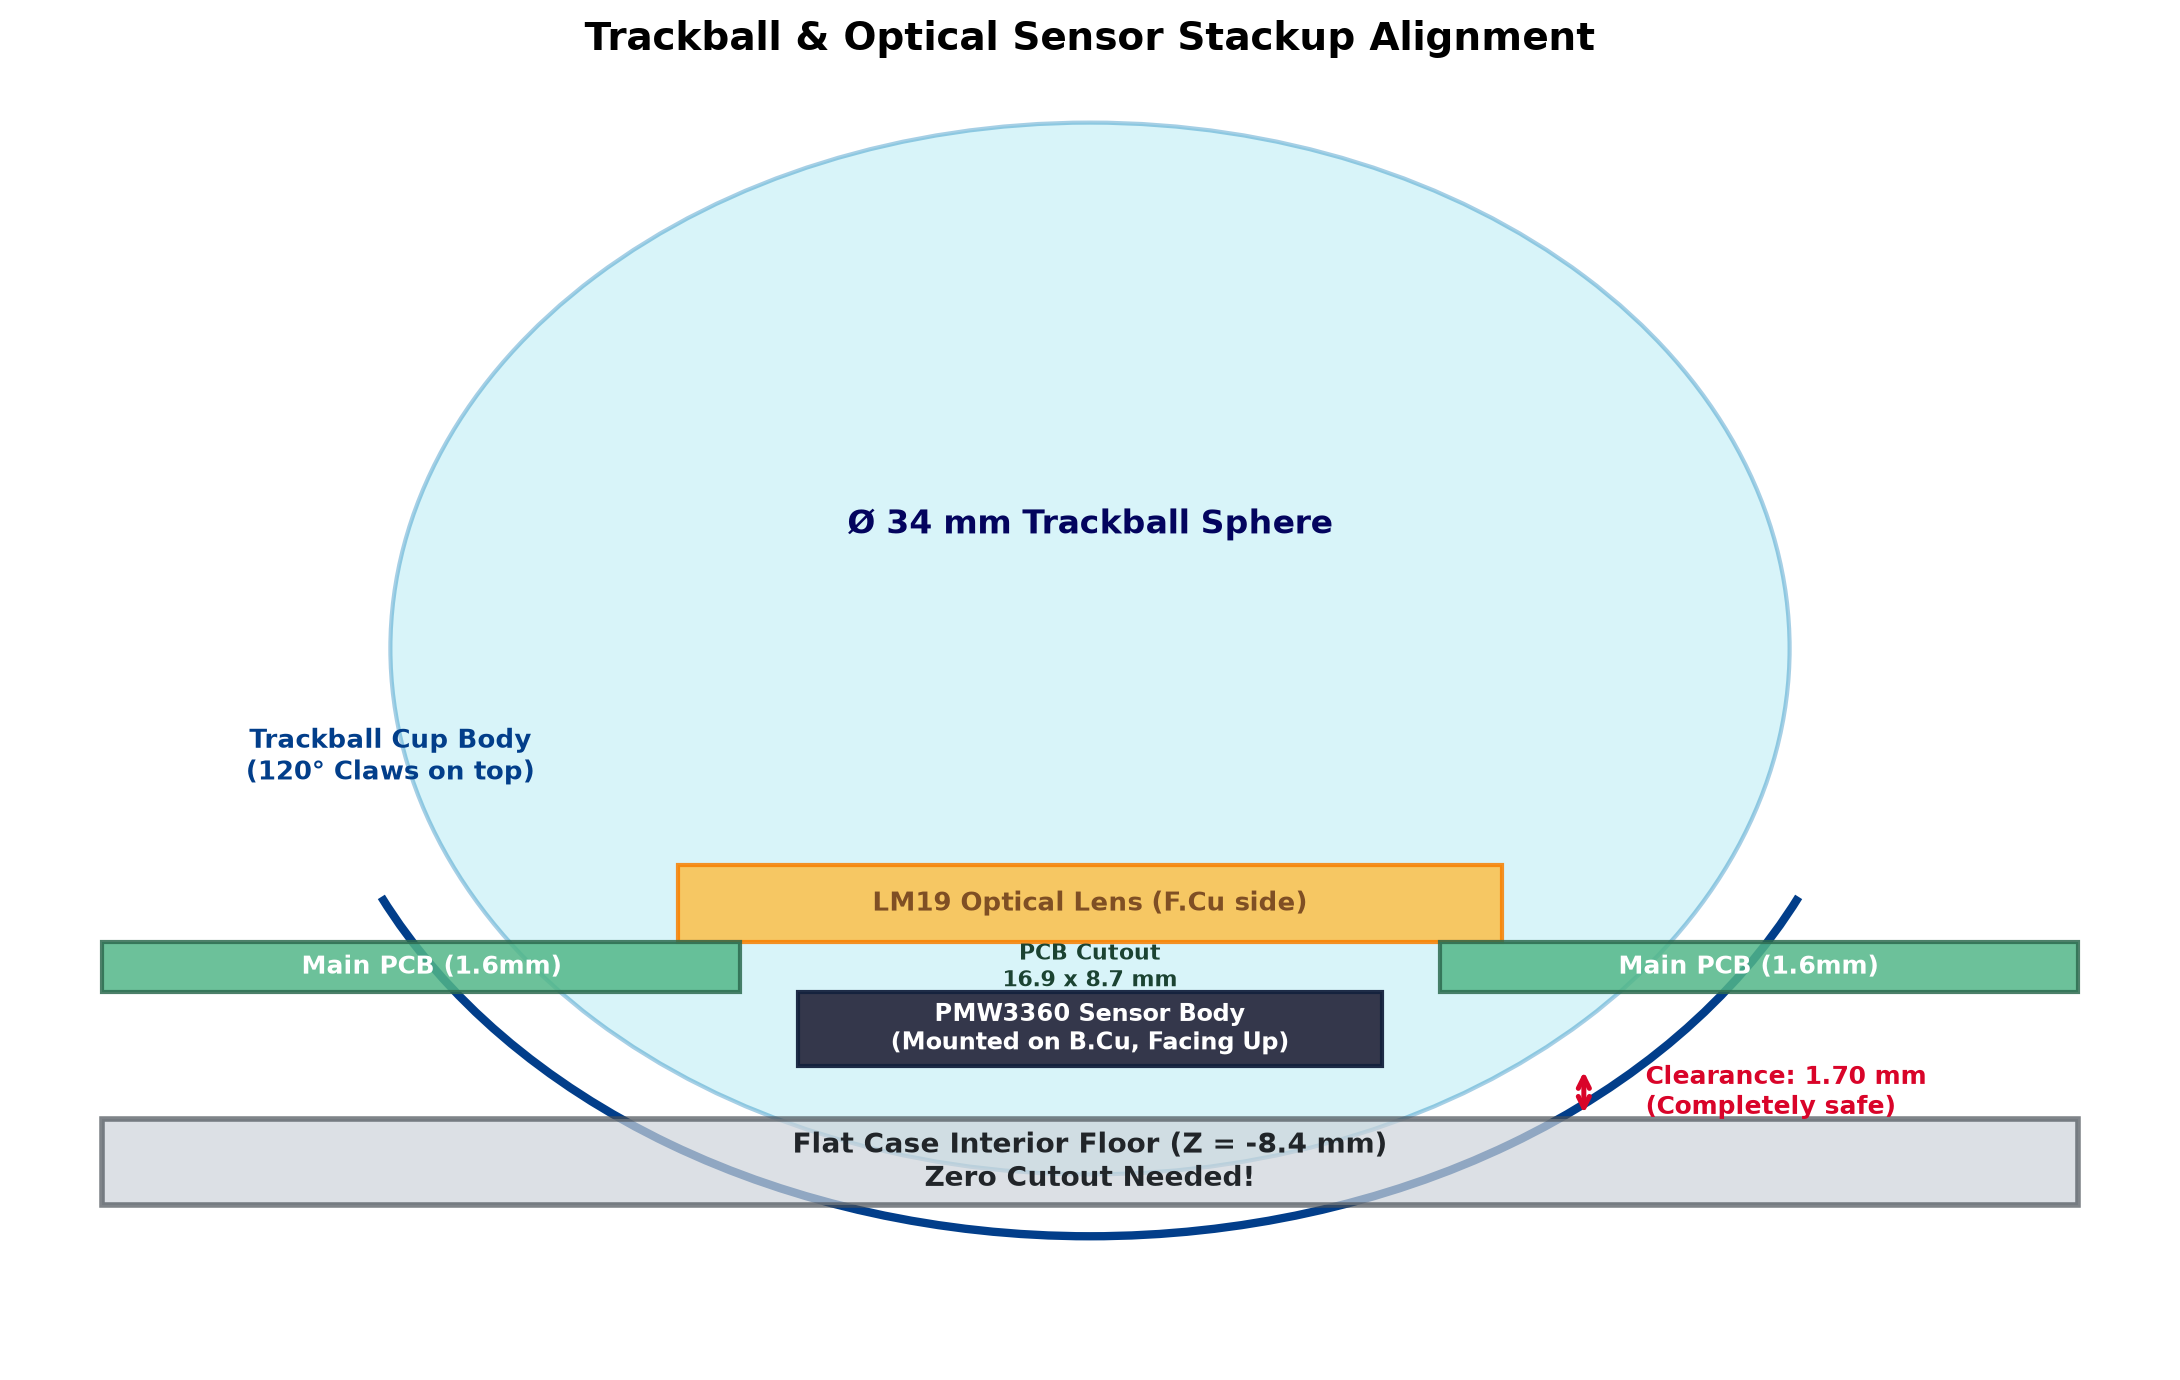
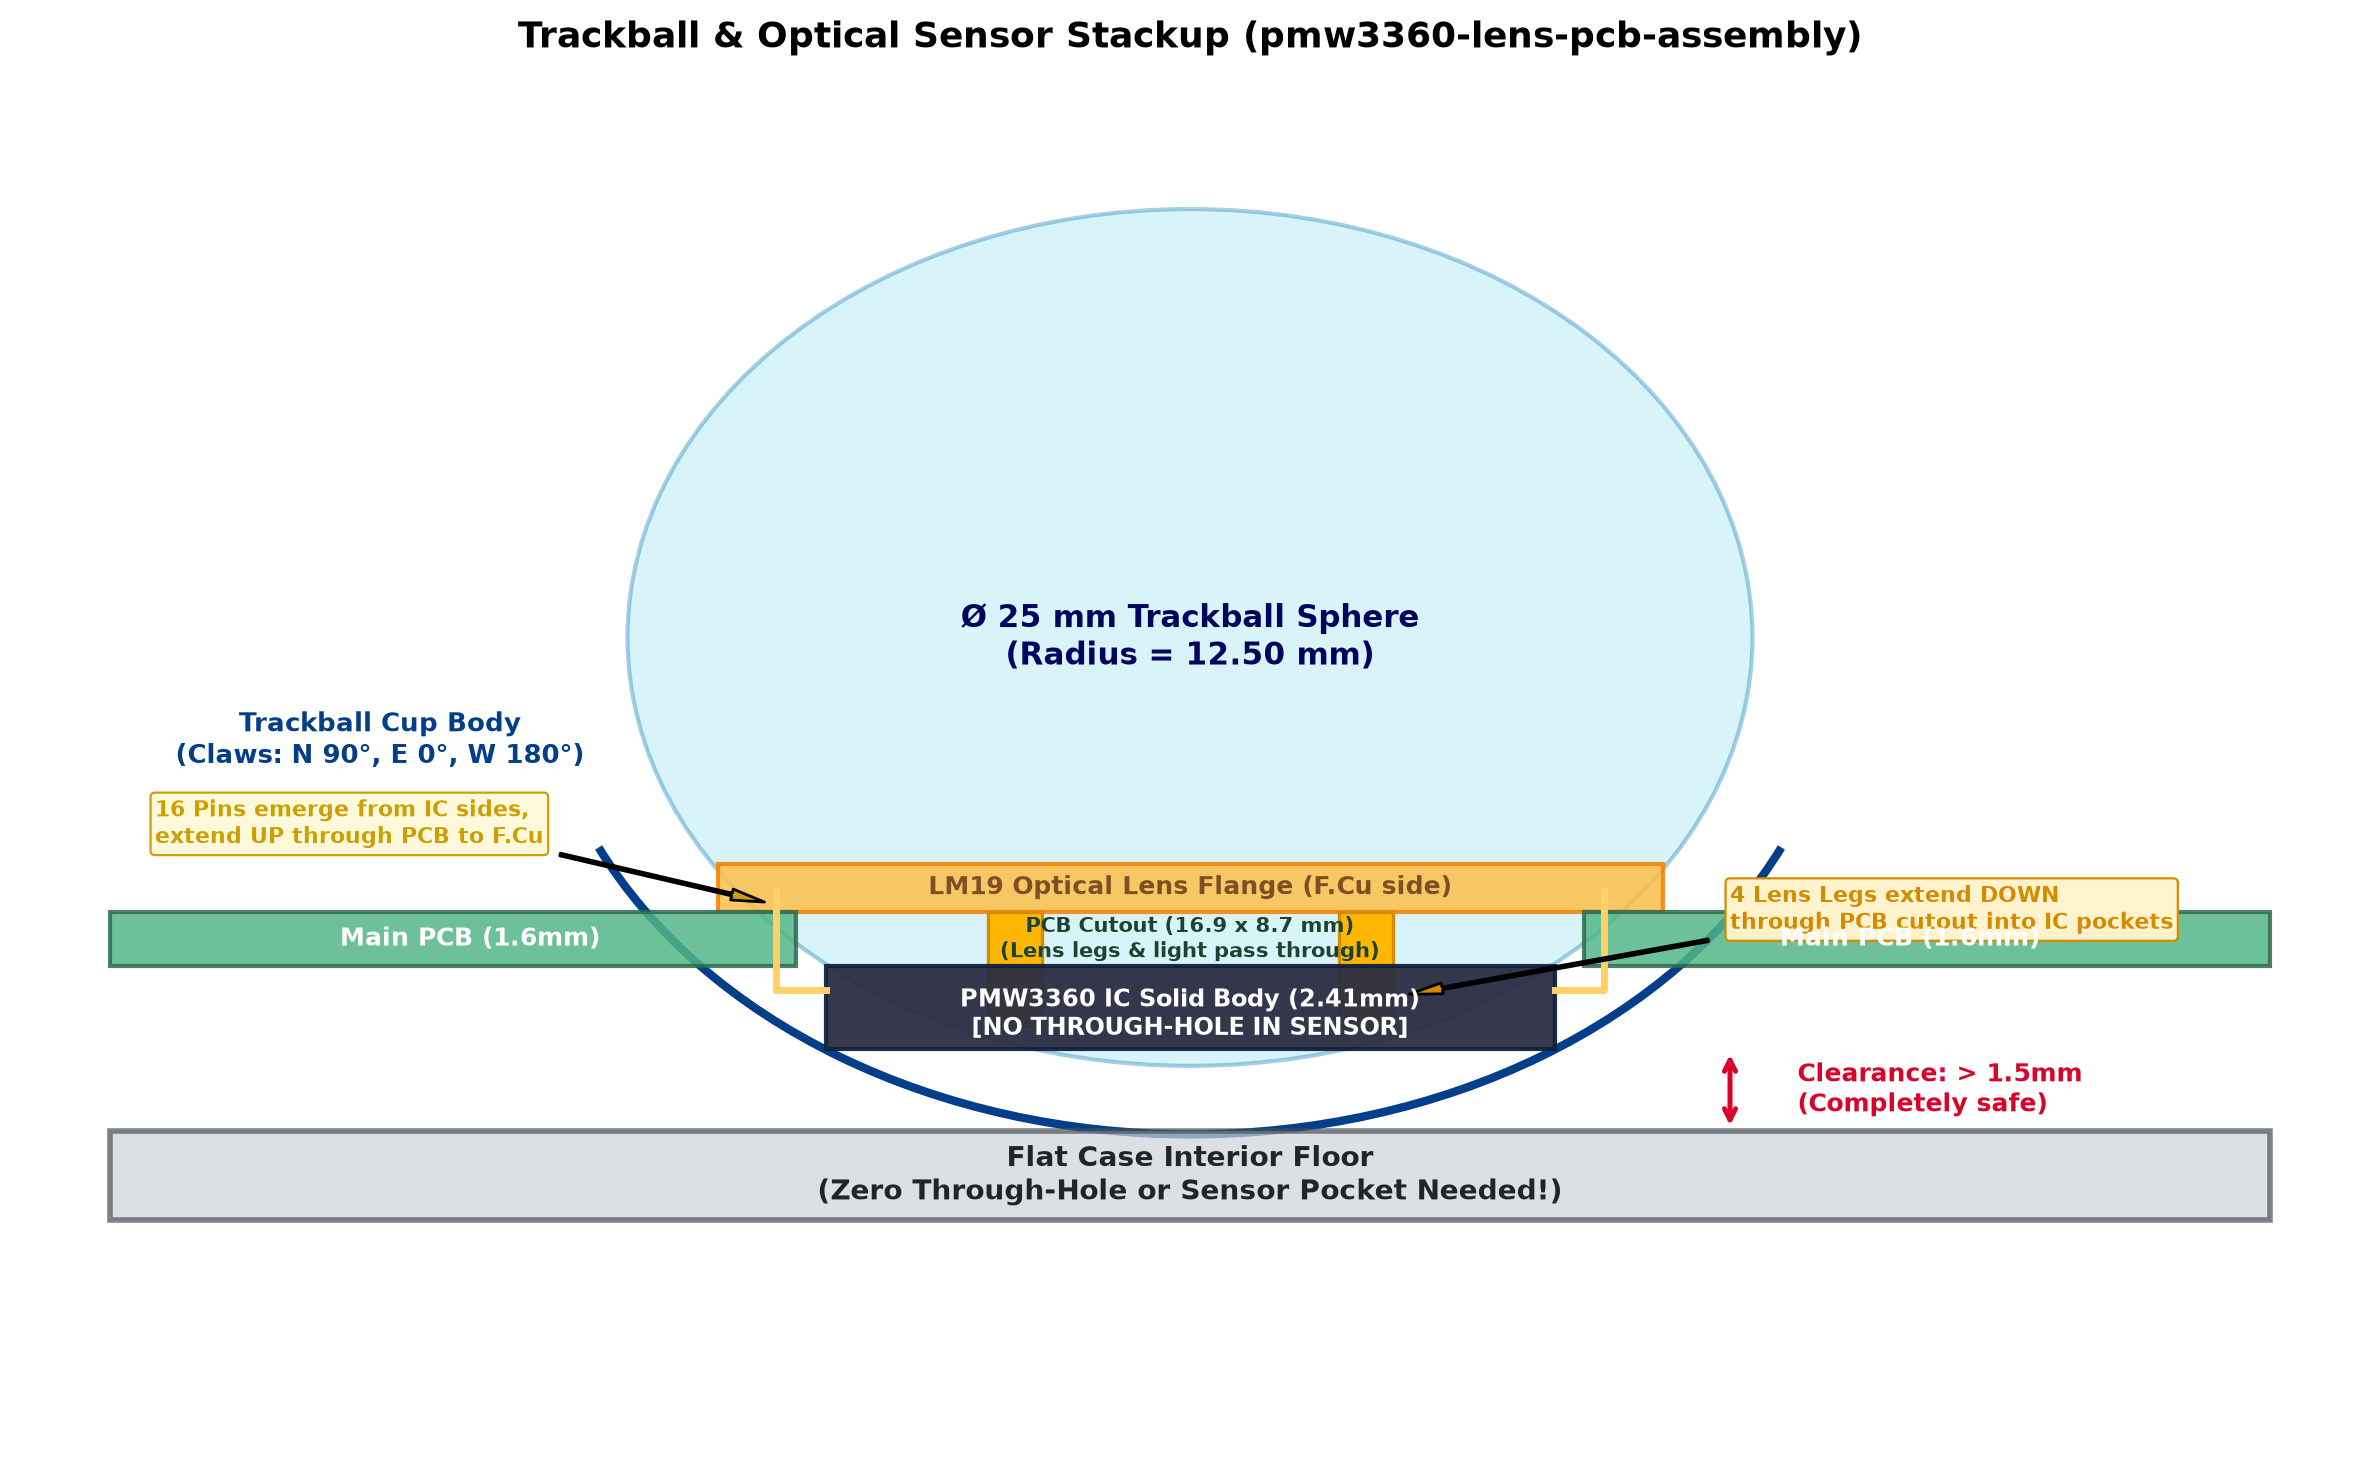
fix 4. トラックボールカップ & 光学系仕様 (Trackball & Optics)

diff --git a/scripts/generate_spec_diagrams.py b/scripts/generate_spec_diagrams.py
@@ -167,52 +167,79 @@ def generate_ports_and_screws_diagram():
     print(f"Saved: {out_file}")
 
 def generate_trackball_optical_diagram():
-    fig, ax = plt.subplots(figsize=(11, 7), dpi=200)
+    fig, ax = plt.subplots(figsize=(12, 7.5), dpi=200)
     ax.set_xlim(-26, 26)
-    ax.set_ylim(-16, 25)
+    ax.set_ylim(-16, 24)
     ax.set_facecolor('#f8f9fa')
     fig.patch.set_facecolor('#ffffff')
 
-    ball_center = (0, 7.0)
-    ball = patches.Circle(ball_center, 17.0, linewidth=1.5, edgecolor='#0077b6', facecolor='#90e0ef', alpha=0.35)
+    # Ø 25.0 mm Trackball Sphere (Radius = 12.50 mm)
+    # Ball center at (0, 8.0), bottom of ball at Z = 8.0 - 12.5 = -4.5 mm
+    ball_center = (0, 8.0)
+    ball = patches.Circle(ball_center, 12.50, linewidth=1.5, edgecolor='#0077b6', facecolor='#90e0ef', alpha=0.35)
     ax.add_patch(ball)
-    ax.text(0, 11.0, "Ø 34 mm Trackball Sphere", ha='center', va='center', fontsize=12, fontweight='bold', color='#03045e')
+    ax.text(0, 8.0, "Ø 25 mm Trackball Sphere\n(Radius = 12.50 mm)", ha='center', va='center', fontsize=11, fontweight='bold', color='#03045e')
 
-    # Cup profile (U-shaped arc)
-    cup_outline = patches.Arc((0, 7.0), 38.0, 38.0, theta1=205, theta2=335, linewidth=3, color='#023e8a')
+    # Cup profile (U-shaped arc for 25mm ball)
+    cup_outline = patches.Arc(ball_center, 29.0, 29.0, theta1=205, theta2=335, linewidth=3, color='#023e8a')
     ax.add_patch(cup_outline)
-    ax.text(-17, 3.5, "Trackball Cup Body\n(120° Claws on top)", ha='center', va='center', fontsize=9.5, fontweight='bold', color='#023e8a')
+    ax.text(-18, 5.0, "Trackball Cup Body\n(Claws: N 90°, E 0°, W 180°)", ha='center', va='center', fontsize=9.5, fontweight='bold', color='#023e8a')
 
-    # Lens LM19 on F.Cu
-    lens = patches.Rectangle((-10, -2.5), 20, 2.5, linewidth=1.5, edgecolor='#f77f00', facecolor='#fcbf49', alpha=0.85)
-    ax.add_patch(lens)
-    ax.text(0, -1.25, "LM19 Optical Lens (F.Cu side)", ha='center', va='center', fontsize=9.5, fontweight='bold', color='#7f4f24')
+    # LM19-LSI Optical Lens (sits on F.Cu at Z in [-0.53, 0.0] or above PCB)
+    # Flange: 21.15 x 18.85 mm, Flange thickness 0.53mm
+    lens_flange = patches.Rectangle((-10.5, 0.0), 21.0, 1.4, linewidth=1.5, edgecolor='#f77f00', facecolor='#fcbf49', alpha=0.85)
+    ax.add_patch(lens_flange)
+    ax.text(0, 0.7, "LM19 Optical Lens Flange (F.Cu side)", ha='center', va='center', fontsize=9, fontweight='bold', color='#7f4f24')
 
-    # PCB
-    pcb_left = patches.Rectangle((-24, -4.1), 15.5, 1.6, linewidth=1.5, edgecolor='#2d6a4f', facecolor='#52b788', alpha=0.85)
-    pcb_right = patches.Rectangle((8.5, -4.1), 15.5, 1.6, linewidth=1.5, edgecolor='#2d6a4f', facecolor='#52b788', alpha=0.85)
+    # 4 Lens Positioning Legs extending DOWN through PCB cutout
+    # 2 round pins (dia 0.9mm) + 2 rectangular ribs
+    leg_left = patches.Rectangle((-4.5, -3.35), 1.2, 3.35, linewidth=1.2, edgecolor='#d48b00', facecolor='#ffb703')
+    leg_right = patches.Rectangle((3.3, -3.35), 1.2, 3.35, linewidth=1.2, edgecolor='#d48b00', facecolor='#ffb703')
+    ax.add_patch(leg_left)
+    ax.add_patch(leg_right)
+    ax.annotate('4 Lens Legs extend DOWN\nthrough PCB cutout into IC pockets',
+                xy=(4.5, -2.5), xytext=(12, -0.5),
+                arrowprops=dict(facecolor='#d48b00', shrink=0.05, width=1, headwidth=4),
+                fontsize=8, fontweight='bold', color='#d48b00',
+                bbox=dict(boxstyle="round,pad=0.2", fc="#fff3cd", ec="#d48b00", lw=0.8))
+
+    # PCB (FR-4, thickness 1.6mm: Z from -1.6 to 0.0)
+    pcb_left = patches.Rectangle((-24, -1.6), 15.25, 1.6, linewidth=1.5, edgecolor='#2d6a4f', facecolor='#52b788', alpha=0.85)
+    pcb_right = patches.Rectangle((8.75, -1.6), 15.25, 1.6, linewidth=1.5, edgecolor='#2d6a4f', facecolor='#52b788', alpha=0.85)
     ax.add_patch(pcb_left)
     ax.add_patch(pcb_right)
-    ax.text(-16, -3.3, "Main PCB (1.6mm)", ha='center', va='center', fontsize=9, fontweight='bold', color='#ffffff')
-    ax.text(16, -3.3, "Main PCB (1.6mm)", ha='center', va='center', fontsize=9, fontweight='bold', color='#ffffff')
-    ax.text(0, -3.3, "PCB Cutout\n16.9 x 8.7 mm", ha='center', va='center', fontsize=8, fontweight='bold', color='#1b4332')
+    ax.text(-16, -0.8, "Main PCB (1.6mm)", ha='center', va='center', fontsize=9, fontweight='bold', color='#ffffff')
+    ax.text(16, -0.8, "Main PCB (1.6mm)", ha='center', va='center', fontsize=9, fontweight='bold', color='#ffffff')
+    ax.text(0, -0.8, "PCB Cutout (16.9 x 8.7 mm)\n(Lens legs & light pass through)", ha='center', va='center', fontsize=7.5, fontweight='bold', color='#1b4332')
 
-    # PMW3360 on B.Cu
-    pmw_body = patches.Rectangle((-7.1, -6.5), 14.2, 2.4, linewidth=1.5, edgecolor='#14213d', facecolor='#2b2d42', alpha=0.95)
+    # PMW3360DM-T2QU Sensor Package (Mounted on B.Cu, Z from -4.01 to -1.60)
+    # Solid package (NO holes in IC!)
+    pmw_body = patches.Rectangle((-8.1, -4.01), 16.2, 2.41, linewidth=1.5, edgecolor='#14213d', facecolor='#2b2d42', alpha=0.95)
     ax.add_patch(pmw_body)
-    ax.text(0, -5.3, "PMW3360 Sensor Body\n(Mounted on B.Cu, Facing Up)", ha='center', va='center', fontsize=8.5, fontweight='bold', color='#ffffff')
+    ax.text(0, -3.0, "PMW3360 IC Solid Body (2.41mm)\n[NO THROUGH-HOLE IN SENSOR]", ha='center', va='center', fontsize=8.5, fontweight='bold', color='#ffffff')
 
-    # Flat Case Floor
-    floor = patches.Rectangle((-24, -11.0), 48, 2.8, linewidth=2, edgecolor='#495057', facecolor='#ced4da', alpha=0.7)
+    # 16 Sensor Metal Pins emerging from IC sides and extending UP through PCB
+    # Left pins
+    ax.plot([-8.1, -9.2, -9.2], [-2.3, -2.3, 0.6], color='#ffd166', lw=2.5)
+    # Right pins
+    ax.plot([8.1, 9.2, 9.2], [-2.3, -2.3, 0.6], color='#ffd166', lw=2.5)
+    ax.annotate('16 Pins emerge from IC sides,\nextend UP through PCB to F.Cu',
+                xy=(-9.2, 0.2), xytext=(-23, 2.0),
+                arrowprops=dict(facecolor='#cca000', shrink=0.05, width=1, headwidth=4),
+                fontsize=8, fontweight='bold', color='#cca000',
+                bbox=dict(boxstyle="round,pad=0.2", fc="#fff9db", ec="#cca000", lw=0.8))
+
+    # Flat Case Interior Floor (Z = -7.21 or -8.4 mm)
+    floor = patches.Rectangle((-24, -9.0), 48, 2.6, linewidth=2, edgecolor='#495057', facecolor='#ced4da', alpha=0.7)
     ax.add_patch(floor)
-    ax.text(0, -9.6, "Flat Case Interior Floor (Z = -8.4 mm)\nZero Cutout Needed!", ha='center', va='center', fontsize=10, fontweight='bold', color='#212529')
+    ax.text(0, -7.7, "Flat Case Interior Floor\n(Zero Through-Hole or Sensor Pocket Needed!)", ha='center', va='center', fontsize=10, fontweight='bold', color='#212529')
 
     # Clearance arrow
-    ax.annotate('', xy=(12, -6.5), xytext=(12, -8.2),
+    ax.annotate('', xy=(12, -4.01), xytext=(12, -6.4),
                 arrowprops=dict(arrowstyle='<->', color='#d90429', lw=1.8))
-    ax.text(13.5, -7.35, "Clearance: 1.70 mm\n(Completely safe)", ha='left', va='center', fontsize=9, fontweight='bold', color='#d90429')
+    ax.text(13.5, -5.2, "Clearance: > 1.5mm\n(Completely safe)", ha='left', va='center', fontsize=9, fontweight='bold', color='#d90429')
 
-    ax.set_title("Trackball & Optical Sensor Stackup Alignment", fontsize=14, fontweight='bold', pad=15)
+    ax.set_title("Trackball & Optical Sensor Stackup (pmw3360-lens-pcb-assembly)", fontsize=13, fontweight='bold', pad=15)
     ax.axis('off')
 
     plt.tight_layout()

diff --git a/docs/curcur40/case_spec.md b/docs/curcur40/case_spec.md
@@ -90,27 +90,59 @@ PCB裏面（$Z = -5.20 \, \text{mm}$）からケース内底面（$Z = -8.40 \, 
 
 ## 4. トラックボールカップ & 光学系仕様 (Trackball & Optics)
 
+本節は、基準アセンブリ [`cases/curcur40/pmw3360-lens-pcb-assembly.step`](../../cases/curcur40/pmw3360-lens-pcb-assembly.step) の物理寸法および合意事項を定義したものです。**AIエージェントおよびモデリングスクリプトは、以下の構造関係を絶対に変更してはなりません。**
+
 ![Trackball Optical Stackup](assets/trackball_optical_stackup.png)
 
-### 4.1 光学系アライメント
-* **使用ボール**: 直径 **$\varnothing 34.0 \, \text{mm}$** トラックボール球（ペリックス製等）
-* **光学レンズ (LM19-LSI)**:
-  * PCBの**表面（F.Cu側）**、トラックボールカップの直下に配置。
-* **光学センサー (PMW3360DM-T2QU)**:
-  * PCBの**裏面（B.Cu側）**から上向きに差し込み実装。
-  * 中央開口部がPCB角穴（$16.9 \times 8.7 \, \text{mm}$）を通って表面のレンズと受光結合。
-  * PCB裏面からの突出長は最大 **$2.41 \, \text{mm}$**。
-* **ケース底面との関係**:
-  * ケース内底面は完全な**平坦（フラット）**とし、貫通穴や段差ポケットは設けません。
+### 4.1 光学系アライメント・部品配置の絶対ルール
+使用するトラックボール球のサイズは **直径 $\varnothing 25.0 \, \text{mm}$** です（34mm球ではありません）。
+
+#### ① 光学レンズ (LM19-LSI)
+* **配置面**: メインPCBの**表面（F.Cu側 / キーキャップ側）**に配置されます。
+* **フランジ部**: トラックボールカップ底面とPCB表面の間に挟まれます。
+* **位置決め脚（4本）**:
+  * レンズ下面から下向きに生えた **4本の脚**（$\varnothing 0.90 \, \text{mm}$ の丸ピン2本＋角型リブ2本）が、PCBの角穴を突き抜けて裏面のセンサーICへと伸びます。
+
+#### ② メインPCB (Main PCB)
+* **板厚**: **1.60 mm**
+* **貫通開口部 (Cutout)**: 中央に **$16.90 \times 8.70 \, \text{mm}$**（または $17.26 \times 8.60 \, \text{mm}$）の長方形角穴が開いています。
+  * この穴は「レンズの4本の脚」と「光学光路」が通り抜けるためのものであり、センサー本体が穴に埋まるわけではありません。
+
+#### ③ 光学センサーIC (PMW3360DM-T2QU)
+* **配置面**: メインPCBの**裏面（B.Cu側 / ケース底面側）**から上向きに配置されます。
+* **パッケージ構造（重要・誤認厳禁）**:
+  * **センサーIC本体には貫通穴やスリット・欠けは一切存在しません**。厚み $2.41 \, \text{mm}$（公称 $1.91 \, \text{mm}$）の**完全なソリッド樹脂モールドパッケージ**です。
+  * パッケージ上面（受光面側）にあるガイド穴（凹み）に、表面からPCB穴を突き抜けてきたレンズの4本の脚がスポッとはまり込み、光学中心が100%同軸に固定されます。
+* **端子ピン（16本 DIP）**:
+  * 16本の金属リード端子は、裏面にあるセンサーIC本体の両側面（列間 $10.70 \, \text{mm}$）から生えています。
+  * この16本のピンが、**裏面から表面へとPCBのスルーホール穴を突き抜け**、表面（F.Cu側）でハンダ付けされます。
+
+#### ④ ケース底面との干渉クリアランス
+* センサー本体底面は $Z = -7.40 \sim -7.50 \, \text{mm}$ に位置します。
+* ケース内底面は $Z = -8.40 \, \text{mm}$ であるため、**約 0.90 〜 1.00 mm の十分な非接触空間**があります。
+* したがって、**ケース底面にセンサーを逃げるための掘り込みポケットや貫通穴は一切不要**であり、ケース内底面は**完全なフラット面**として成形します。
+
+---
 
 ### 4.2 トラックボールカップ・保持爪仕様
-* **爪の配置角度**: 
-  * 安定保持の **120度等間隔爪（北側 90°、南東 330°、南西 210°）** を基本構成とする。
-* **爪の形状**:
-  * 球の出し入れがスムーズで折れにくい、外側から球の赤道上を包み込むアーチ形状。
-  * 横幅は耐久性を担保しつつ可能な限りスリムなリブ構造。
-* **カップ固定足**:
-  * ケースまたはスペーサーに固定する締結ボス（M2ネジ貫通）。
+
+球の脱落防止爪（リテンションクロー）は、親指の操作性を最大化しつつ球を安定保持するため、以下の**直交3方向（T字）配置**とします。
+
+#### ① 爪の配置角度（絶対仕様）
+* **北側 (North)**: **90.0°**（上側 / USB-Cポート側）
+* **東側 (East)**: **0.0° / 360.0°**（右側 / キーボード外側）
+* **西側 (West)**: **180.0°**（左側 / キーボード内側）
+* **南側 (South)**: **開口（爪なし）**
+  * 親指が球に触れる南側エリアを大きく開放することで、親指の可動域を広げ、スムーズな操作性を実現します。
+  * 北(90°)、東(0°)、西(180°)の3点が球の上半球（赤道上）を包み込むため、南側が開いていても球が持ち上がったり脱落することはありません。
+
+#### ② 爪およびカップの形状仕様
+* **球受座**: 直径 $\varnothing 25.0 \, \text{mm}$ 球に対し、3点支持（$\varnothing 2.0 \, \text{mm}$ セラミックベアリングボール3個を等間隔または最適角で配置）。
+* **爪のプロファイル**:
+  * 爪の支え（アーム部）は、十分な強度・弾性を維持しつつ**可能な限りスリムなリブ構造**とし、キートップや指との干渉を最小限に抑えます。
+  * 爪先端は球の曲率に沿ったスムーズなアーチ形状とし、引っ掛かりのない滑らかな意匠とします。
+* **固定足**:
+  * ケース側スペーサーに締結するための固定足（M2ネジ貫通穴）。足表面にネジ頭ザグリは不要（フラット面）。
 
 ---
 
@@ -126,5 +158,3 @@ flowchart TD
     C --> D["CADモデル (STEP / STL) の再生成"]
     D --> E["実測・干渉検証 (3Dビュワー確認)"]
 ```
-
-本書の記載内容についてご確認いただき、修正点や追加したいご要望がございましたらお知らせください。承認をいただき次第、本仕様書に100%基づいたクリーンな生成スクリプトをワークスペースに作成いたします。
